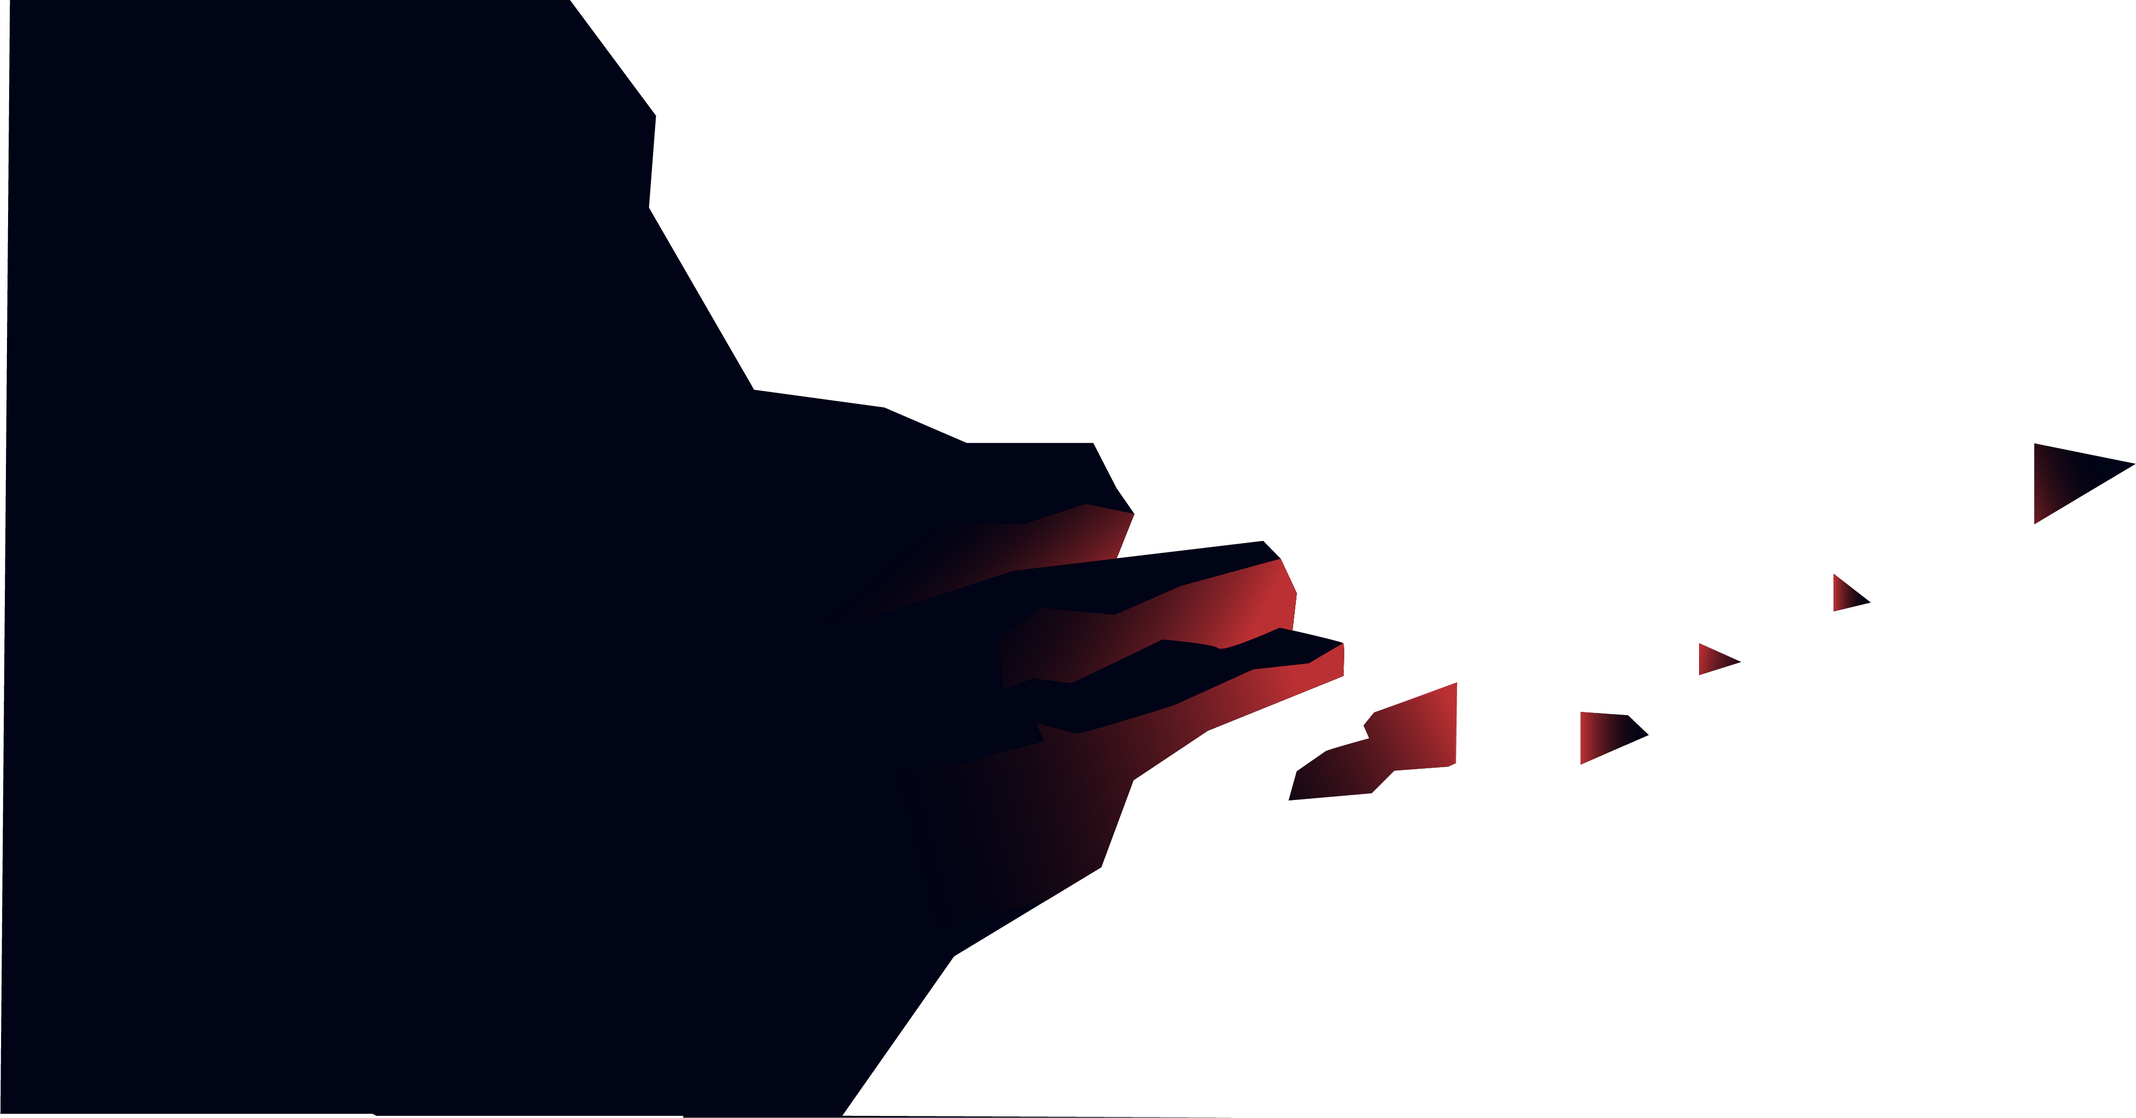
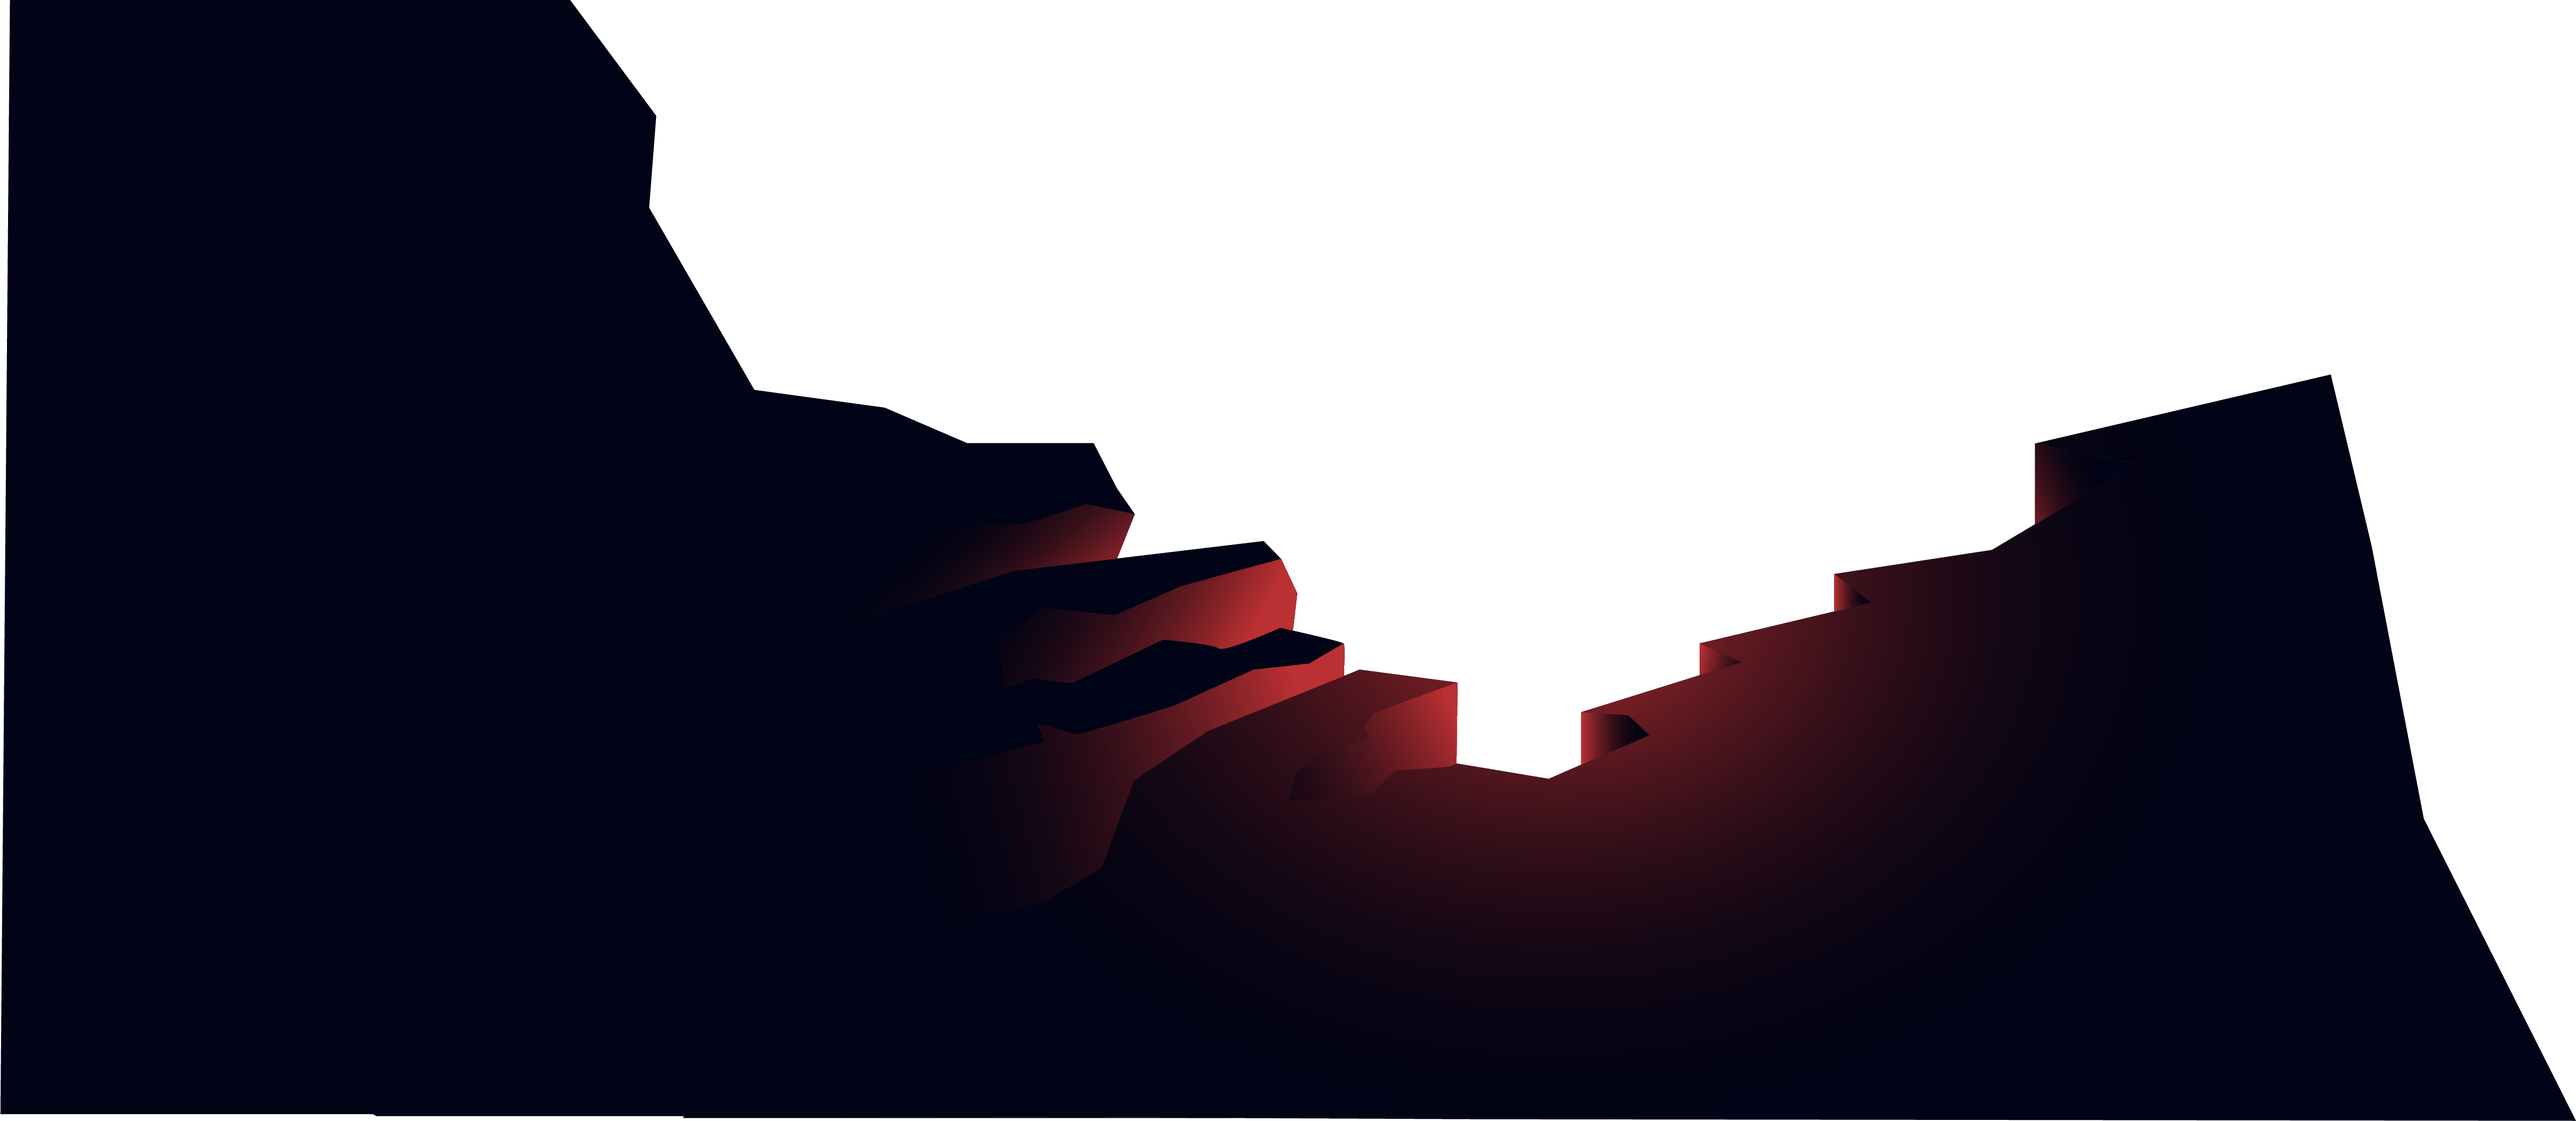
Chapter27 scene02 : assets integration wip

Changed region(s): [[0.2184, 0.0, 1.0, 1.0]]

diff --git a/src/components/Chapter/datas/chapter27.js b/src/components/Chapter/datas/chapter27.js
@@ -13,8 +13,9 @@ export default {
     {"src": imageList.chapters.chapter27.scene05.Chap27_scene05}
   ],
   "parallaxedImage": [
+    // SCENE 01
+
     {
-      //"src": "Chap27_scene01_eclair",
       "src": imageList.chapters.chapter27.scene01.Chap27_scene01_fenetre_background,
       "left" : "4.2%",
       "top" : "2%",
@@ -22,30 +23,19 @@ export default {
       "scallingRatio": 0.005,
       "zIndex": 0
     },
-    /*{
-      "src": "Chap27_scene01_palais",
-      "scene": "01",
-      "left" : "0.43%",
-      "top" : "3%",
-      "speed": 1
-    },*/
     {
-      // "src": "Chap27_scene01_rochers",
       "src": imageList.chapters.chapter27.scene01.Chap27_scene01_rochers,
       "left" : 0,
       "bottom" : -2,
       "speed": 10
     },
     {
-      // "src": "Chap27_scene01_pilier1",
       "src": imageList.chapters.chapter27.scene01.Chap27_scene01_pilier1,
       "left" : "3.7%",
       "bottom": 0,
       "speed": -5
     },
-
     {
-      //"src": "Chap27_scene01_serviteur",
       "src": imageList.chapters.chapter27.scene01.Chap27_scene01_serviteur,
       "left" : "4%",
       "bottom": "9%",
@@ -53,7 +43,6 @@ export default {
       "zIndex": 18
     },
     {
-      //"src": "Chap27_scene01_zeus",
       "src": imageList.chapters.chapter27.scene01.Chap27_scene01_zeus,
       "left" : "6%",
       "bottom": "-15%",
@@ -66,8 +55,6 @@ export default {
       "bottom": "-15%",
       "speed": -25
     },
-    // chaise1
-    // chaise2
     {
       "src": imageList.chapters.chapter27.scene01.Chap27_scene01_chaise1,
       "left" : "7.3%",
@@ -80,7 +67,7 @@ export default {
       "left" : "9.5%",
       "bottom": "-17%",
       "speed": -5,
-      zIndex: 16
+      "zIndex": 16
     },
     {
       "src": imageList.chapters.chapter27.scene01.Chap27_scene01_pilier2,
@@ -116,9 +103,93 @@ export default {
       "left" : "18.4%",
       "top": 0,
       "speed": -10
-    }
+    },
+
+    // SCENE 02
+
+    {
+      "src": imageList.chapters.chapter27.scene02.Chap27_scene02_rochers1,
+      "left" : "26.5%",
+      "bottom": 0,
+      "speed": -8
+    },
+    {
+      "src": imageList.chapters.chapter27.scene02.Chap27_scene02_texte1,
+      "left" : "24.6%",
+      "top": "35%",
+      "speed": 5,
+      "zIndex": 19
+    },
+    {
+      "src": imageList.chapters.chapter27.scene02.Chap27_scene02_cailloux,
+      "left" : "31.2%",
+      "top": "10%",
+      "speed": -20,
+      "zIndex": 18
+    },
+    {
+      "src": imageList.chapters.chapter27.scene02.Chap27_scene02_rochers2,
+      "left" : "32.4%",
+      "bottom": "-0.4%",
+      "speed": -5,
+      "scallingRatio": 0.01,
+    },
+    {
+      "src": imageList.chapters.chapter27.scene02.Chap27_scene02_rochers3,
+      "left" : "40.2%",
+      "bottom": "0%",
+      "speed": -30,
+    },
+    {
+      "src": imageList.chapters.chapter27.scene02.Chap27_scene02_rochers4,
+      "left" : "47.5%",
+      "bottom": "-1%",
+      "speed": -35,
+      "zIndex": 21
+    },
+    {
+      "src": imageList.chapters.chapter27.scene02.Chap27_scene02_rochers5,
+      "left" : "33.5%",
+      "bottom": "0%",
+      "speed": 10,
+    },
+    {
+      "src": imageList.chapters.chapter27.scene02.Chap27_scene02_rochers9,
+      "left" : "45.5%",
+      "top": "-1.1%",
+      "speed": -20,
+    },
+    {
+      "src": imageList.chapters.chapter27.scene02.Chap27_scene02_rochers7,
+      "left" : "31.2%",
+      "bottom": "-1%",
+      "speed": 20,
+      "zIndex": 19
+    },
+    {
+      "src": imageList.chapters.chapter27.scene02.Chap27_scene02_texte2,
+      "left" : "47.7%",
+      "bottom": "30%",
+      "speed": -20,
+    },
+    {
+      "src": imageList.chapters.chapter27.scene02.Chap27_scene02_rochers6,
+      "left" : "48.2%",
+      "bottom": "-0.1%",
+      "speed": -15,
+    },
+    {
+      "src": imageList.chapters.chapter27.scene02.Chap27_scene02_rochers8,
+      "left" : "38.1%",
+      "top": "-0.7%",
+      "speed": 10,
+      "zIndex": 19
+
+    },
+
   ],
   "lottieAnimations": [
+    // SCENE 01
     {
       "source": animationList.chapters.chapter27.palais,
       "styles": {
@@ -164,13 +235,38 @@ export default {
       "source": animationList.chapters.chapter27.eclairLeft,
       "speed": 25,
       "styles": {
-        "width": "3.1%",
+        "width": "3.9%",
         "height": "100%",
-        "left": "5.3%",
-        "top": "-15%",
+        "left": "4.9%",
+        "top": "-12%",
         "zIndex": 5
       }
+    },
+    {
+      "source": animationList.chapters.chapter27.eclairLeft,
+      "speed": -30,
+      "styles": {
+        "width": "5.5%",
+        "height": "142%",
+        "left": "25%",
+        "top": "-32%",
+      }
+    },
+
+    // SCENE 02
+
+    {
+      "source": animationList.chapters.chapter27.eclairRouge,
+      "speed": 0,
+      "styles": {
+        "width": "5.5%",
+        "height": "142%",
+        "left": "23.3%",
+        "top": "-32%",
+        "zIndex": 15
+      }
     }
+
   ],
   "texts": [
   ]

diff --git a/src/assets/AnimationsList.js b/src/assets/AnimationsList.js
@@ -1,16 +1,12 @@
 export default animationList = {
   chapters: {
-    chapter1: {
-    },
     chapter27: {
       'palais': require('./animations/chapter27/palais'),
       'eclairPalais': require('./animations/chapter27/eclair-palais'),
       'nuagesPalais': require('./animations/chapter27/nuages-palais'),
-      'eclairLeft': require('./animations/chapter27/eclair-left')
+      'eclairLeft': require('./animations/chapter27/eclair-left'),
+      'eclairRouge': require('./animations/chapter27/eclair-rouge'),
     },
-    chapter28: {
-
-    }
   },
 };
 
